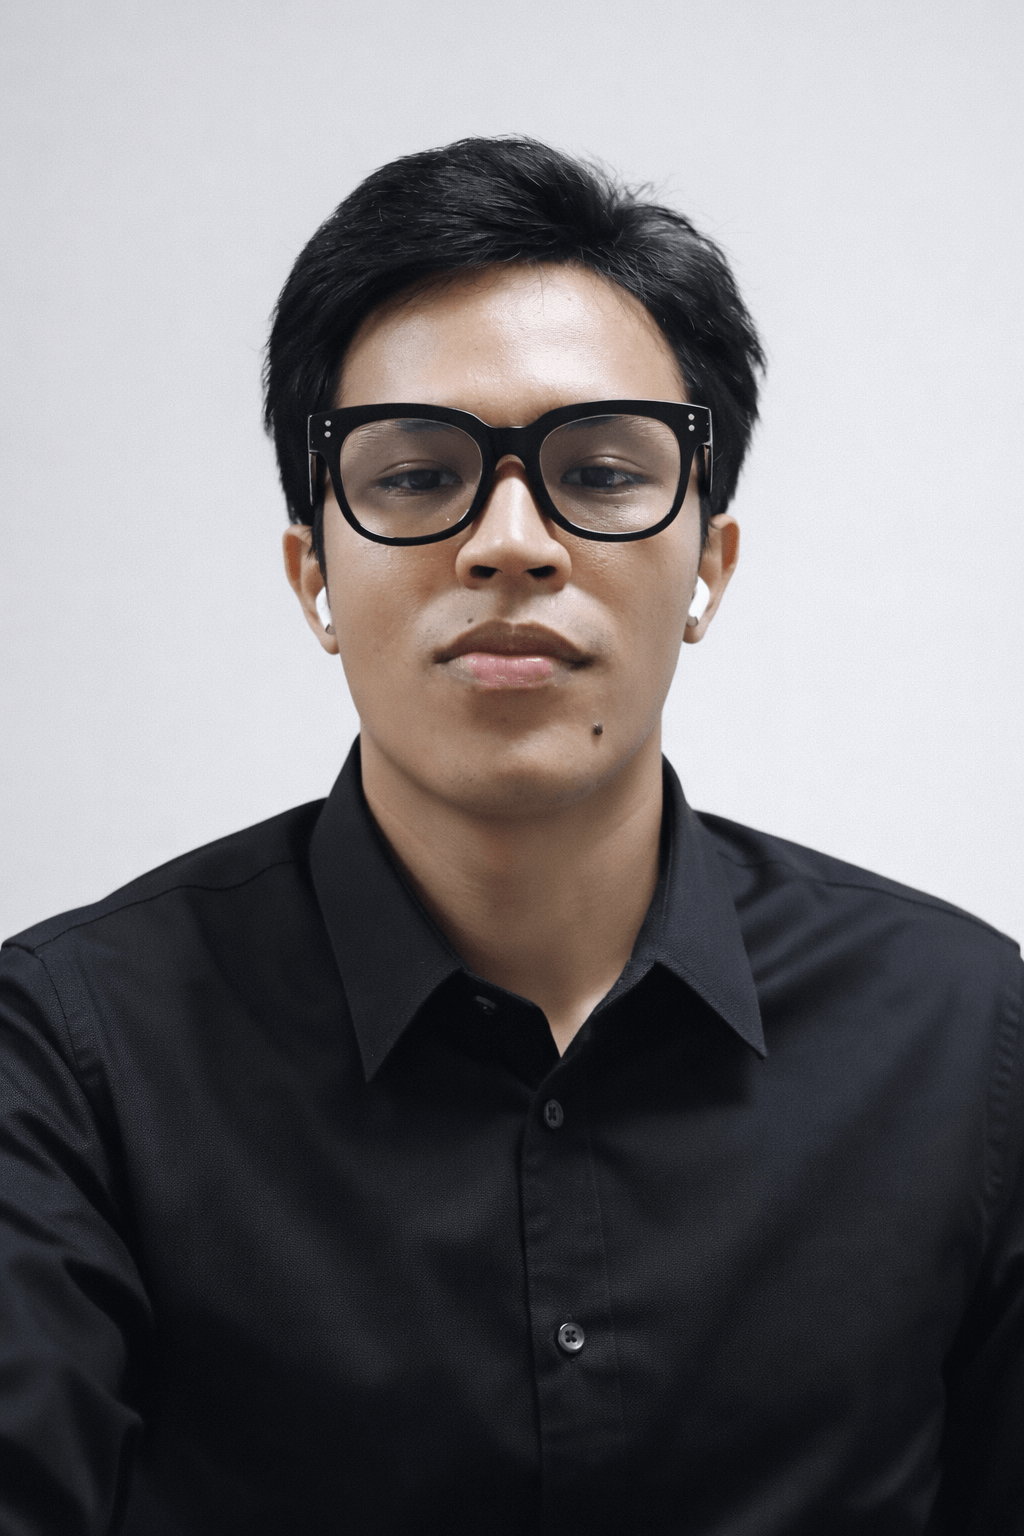
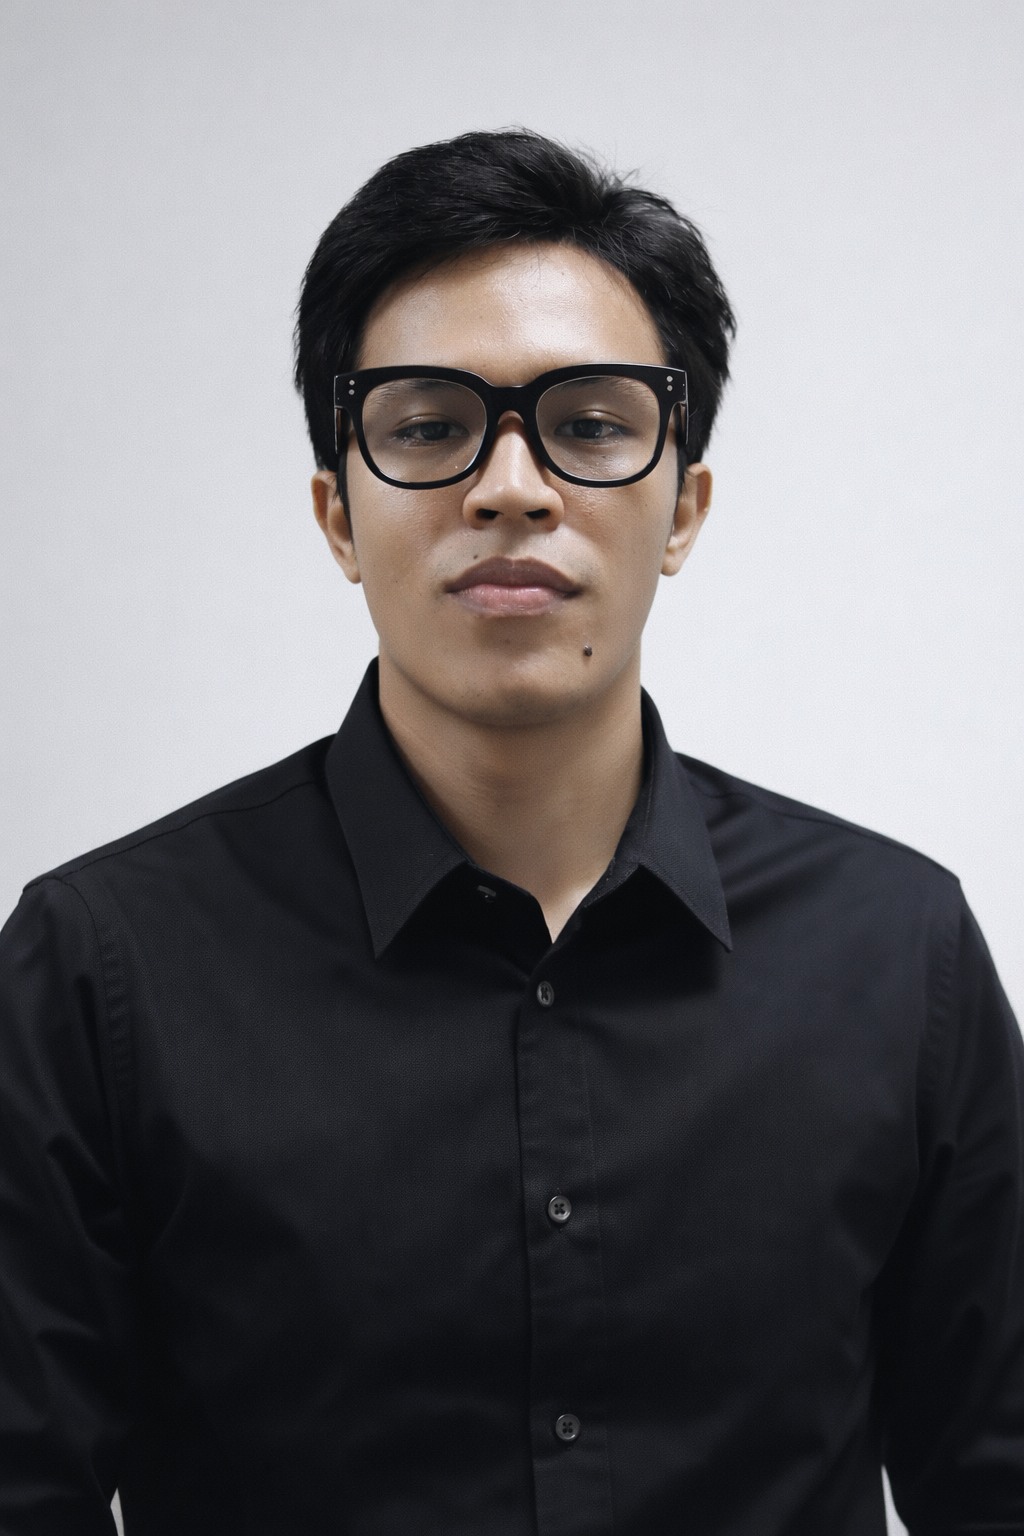
update experience and about section

diff --git a/src/content/experience/index.md b/src/content/experience/index.md
@@ -8,33 +8,34 @@ title: "Experience"
 Supported data-driven and technical operations during an internship, contributing to both analytical and system-related tasks.
 
 Key responsibilities and contributions:
-- Assisted in data preparation, validation, and reporting to support internal operations
-- Collaborated with team members to handle data-related requests and basic system troubleshooting
-- Gained hands-on experience in developing company profile website
+- Supported IT and data-related operations during an internship, contributing to both technical development and administrative processes.
+- Developed a company profile website integrated with a chatbot feature to improve information accessibility and user interaction.
+- Assisted in preparing administrative and technical documentation for BNSP professional certification participants.
+- Participated in BNSP professional certification under the AI Application for Data Processing scheme, focusing on practical AI implementation for data handling.
 
 ---
 
 ### IBM SkillsBuild for AI & Cybersecurity  
 **Hacktiv8** · Feb 2024 – Jul 2024  
 
-Participated in an AI and Machine Learning program emphasizing practical application and industry-relevant skills.
+Participated in the IBM SkillsBuild for AI & Cybersecurity program, developing and evaluating deep learning models for real-world NLP applications.
 
 Key focus areas:
-- Project-based implementation of machine learning on real-world data
-- Machine learning fundamentals and deep learning concepts
-- Model development, evaluation, optimization, and deployment
-- Exposure to real-world AI use cases and project-based assignments
+- Developed and evaluated deep learning models (LSTM and CNN) using TensorFlow to perform sentiment analysis on 27,481 X (Twitter) posts, contributing to automated negative content filtering systems
+- Built an end-to-end NLP pipeline covering text cleaning, stopword removal, one-hot encoding, and tokenization with sequence padding
+- Achieved a model accuracy of **93.34%** and an **F1-score of 0.94** with the LSTM architecture, outperforming the CNN model in handling sequential text dependencies
+- Completed intensive IBM SkillsBuild courses covering Machine Learning, Prompt Engineering, Watsonx.ai, and Enterprise Data Science
 
 ---
 
 ### Data Science Track 
 **Startup Campus** · Aug 2023 – Dec 2023  
 
-Completed an intensive data science program focused on applied analytics and machine learning.
+Completed the Data Science Track, leading a team through an end-to-end customer segmentation capstone project.
 
 Key learning outcomes and projects:
-- Built end-to-end data science projects involving data preprocessing, exploratory data analysis, modeling, and evaluation
-- Applied machine learning algorithms to real-world datasets, including classification and clustering problems
-- Gained hands-on experience with Python, SQL, and data visualization tools
-- Strengthened problem-solving skills through project-based learning and peer collaboration
+- Led a 6-member final project team, coordinating task allocation and monitoring progress to achieve a final capstone score of **90/100**
+- Performed RFM-based customer clustering on 50,704 e-commerce transaction records using K-Means and K-Medoids algorithms, achieving a Calinski–Harabasz Index of **89.795**
+- Processed data workflows using SQL in Google BigQuery to extract, clean, and analyze e-commerce datasets for business insights
+- Built interactive business intelligence dashboards in Google Looker Studio to visualize demographic trends, RFM segmentation, and sales performance
 

diff --git a/src/content/about/index.md b/src/content/about/index.md
@@ -4,10 +4,10 @@ title: "About Me"
 
 ![Muhammad Rafli](/images/profile.png)
 
-Hi, I’m **Muhammad Rafli**, a **Fresh Graduate of Data Science Major** with a strong focus on **machine learning, data analytics, and applied data science**.
+Hi, I'm **Muhammad Rafli**, a **Data Science graduate from UPN Veteran Jawa Timur** (GPA 3.81/4.00) with a strong focus on **machine learning, data analytics, and applied data science**.
 
-I enjoy working with real-world data problems — starting from raw, messy data to building analytical models that generate actionable insights. My experience includes developing **LSTM-based sentiment analysis models**, **RFM customer segmentation**, and **computer vision systems** for image classification using deep learning.
+I enjoy working with real-world data problems — starting from raw, messy data to building analytical models that generate actionable insights. My experience spans **LSTM-based sentiment analysis**, **RFM customer segmentation**, and **computer vision systems** for image classification using deep learning, including a published research paper on optimizing MobileNetV2 for batik motif classification.
 
-Throughout my projects and internships, I have worked with tools such as **Python, SQL, TensorFlow, scikit-learn**, and **data visualization libraries**, emphasizing model evaluation, interpretability, and practical deployment.
+Beyond modeling, I've worked hands-on with **SQL and Google BigQuery** for data extraction and processing, and built **business intelligence dashboards in Google Looker Studio** to turn analysis into something stakeholders can actually act on. My toolkit includes **Python, SQL, TensorFlow, scikit-learn**, and standard BI/visualization tools, with an emphasis on model evaluation, interpretability, and practical deployment.
 
-I am currently seeking opportunities where I can grow as a data scientist, contribute to data-driven decision making, and work on impactful problems at scale.
+I'm certified in **AI Application for Data Processing (BNSP)** and currently seeking opportunities where I can grow as a data scientist, contribute to data-driven decision making, and work on impactful problems at scale.